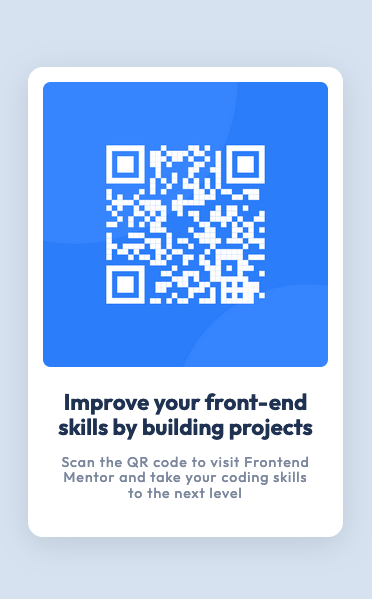
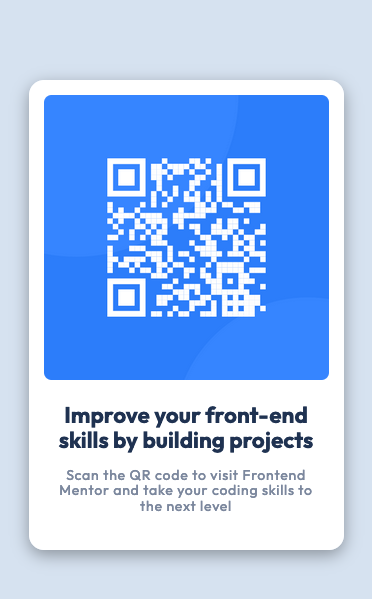
Updated code based on feedback

Changed region(s): [[0.0591, 0.0902, 0.9462, 0.9316], [0.2661, 0.2404, 0.7392, 0.5409]]

diff --git a/style.css b/style.css
@@ -25,7 +25,7 @@
     3. Allow percentage-based heights in the application
   */
   html, body {
-    height: 100%;
+    min-height: 100vh;
   }
   /*
     Typographic tweaks!
@@ -79,12 +79,11 @@
     --card-padding-y: 1rem;
     --card-padding-x: 1rem;
 
-    box-shadow: rgba(100, 100, 111, 0.2) 0px 7px 29px 0px;;
+    box-shadow: rgba(0, 0, 0, 0.35) 0px 5px 15px;
     background-color: var(--clr-neutral-100);
     border-radius: 1rem;
     line-height: 1.1;
-    margin: 2rem;
-    max-width: 350px;
+    max-width: 21rem;
     overflow: hidden;
     padding: var(--card-padding-y) var(--card-padding-x);
     text-align: center;
@@ -107,5 +106,5 @@
   }
 
   .card p {
-    letter-spacing: 1px;
+    letter-spacing: .05rem;
   }

diff --git a/index.html b/index.html
@@ -14,17 +14,15 @@
 </head>
 <body>
   <main>
-    <div class="card">
-      <picture class="card__image">
-        <img src="/images/image-qr-code.png" alt="qr code image.">
-      </picture>
+    <article class="card">
+        <img src="/images/image-qr-code.png" alt="qr code image." class="card__image">
       <div class="card__content">
-        <h2 class="card__title">
+        <h1 class="card__title">
           Improve your front-end skills by building projects
-        </h2>
+        </h1>
         <p>Scan the QR code to visit Frontend Mentor and take your coding skills to the next level</p>
       </div>
-    </div>
+    </article>
   </main>
 </body>
 </html>

diff --git a/README.md b/README.md
@@ -40,14 +40,14 @@ And to be fair `custom css properties` are awesome!
 
 ```css
 .card {
-    --card-padding-y: 1.5rem;
+    --card-padding-y: 1rem;
     --card-padding-x: 1rem;
 
+    box-shadow: rgba(0, 0, 0, 0.35) 0px 5px 15px;
     background-color: var(--clr-neutral-100);
     border-radius: 1rem;
     line-height: 1.1;
-    margin: 2rem;
-    max-width: 315px;
+    max-width: 21rem;
     overflow: hidden;
     padding: var(--card-padding-y) var(--card-padding-x);
     text-align: center;
